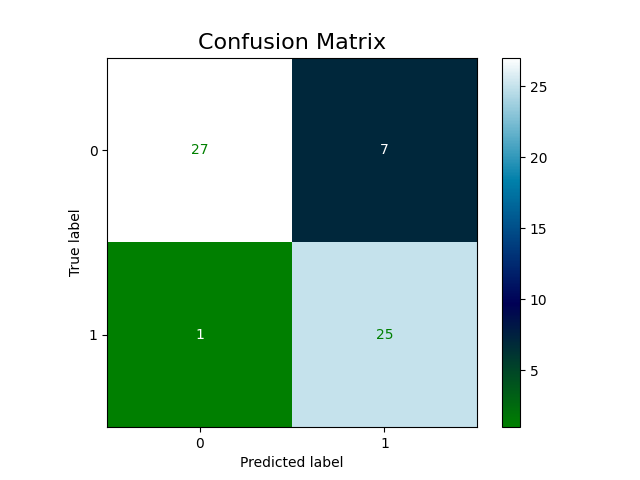
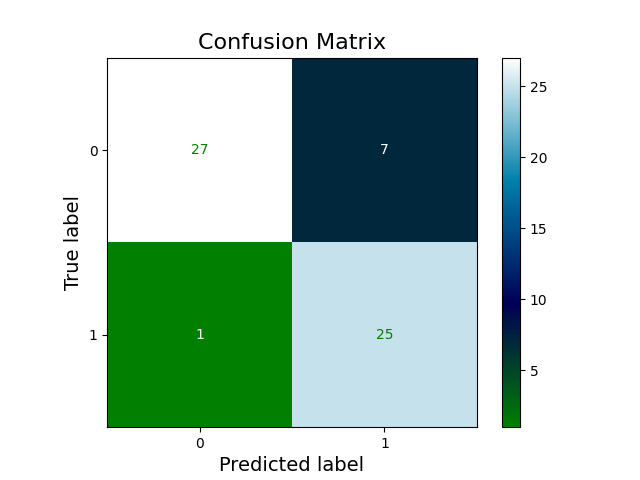
meer nederlandse plots

Changed region(s): [[0.3438, 0.9375, 0.5625, 1.0], [0.0938, 0.4062, 0.125, 0.5938]]

diff --git a/CCPlots/implementation/ClassificationExample.py b/CCPlots/implementation/ClassificationExample.py
@@ -15,59 +15,128 @@ import numpy as np
 from CCPlots.PlotExample import PlotExample
 from CCPlots.config import THEME, COLOR_PALETTE, OUTPUT_PATH
 
+RANDOM_SEED = 42
 
 class ClassificationExample(PlotExample):
+
+    # We will hold our data and classifier later
+    X, y = None, None
+    X_train, X_test, y_train, y_test = None, None, None, None
+    classifier: LogisticRegression = None
+
     def main(self):
+        """
+        Execute a LR on synth data and plot a decision boundary and confusion matrix
+        in English and Dutch
+        """
+        # Generate dummy data
+        self.generate_data()
+
+        # Split the data into training and testing sets
+        self.X_train, self.X_test, self.y_train, self.y_test = train_test_split(
+            self.X, self.y, test_size=0.3, random_state=RANDOM_SEED)
+
+        # Train LR classification model
+        self.train_classifier()
+
+        # Plot the decision boundary with English text
+        self.plot_decision_boundary(
+            fname="classification_decision_boundary.png",
+            title="Classification Example with Decision Boundary",
+            xlabel="Age",
+            ylabel="Blood Pressure"
+        )
+
+        # En nu in het Nederlands hoppa
+        self.plot_decision_boundary(
+            fname="classification_decision_boundary_NL.png",
+            title="Diabetes classificatievoorbeeld",
+            xlabel="Leeftijd",
+            ylabel="Bloeddruk"
+        )
+
+        # Plot the confusion matrix with English text
+        self.plot_confusion_matrix(
+            fname="classification_confusion_matrix.png",
+            title="Confusion Matrix",
+            xlabel="Predicted label",
+            ylabel="True label"
+        )
+
+        # En nu weer in het nederlands hatsa
+        self.plot_confusion_matrix(
+            fname="classification_confusion_matrix_NL.png",
+            title="Verwarringsmatrix",
+            xlabel="Voorspeld label",
+            ylabel="Werkelijk label"
+        )
+
+    def plot_confusion_matrix(self, fname: str, title: str,
+                              xlabel: str = "Predicted label",
+                              ylabel: str = "True label") -> None:
+        # Generate predictions and create a confusion matrix
+        y_pred = self.classifier.predict(self.X_test)
+        cm = confusion_matrix(self.y_test, y_pred)
+
+        # Plot the confusion matrix
+        disp = ConfusionMatrixDisplay(confusion_matrix=cm, display_labels=self.classifier.classes_)
+        disp.plot(cmap=THEME)
+        plt.title(title, fontsize=16)
+        plt.xlabel(xlabel, fontsize=14)
+        plt.ylabel(ylabel, fontsize=14)
+        plt.savefig(OUTPUT_PATH + fname)
+
+    def plot_decision_boundary(self, fname: str, title: str,
+                               xlabel: str = "Age",
+                               ylabel: str = "Blood Pressure") -> None:
+        """ Plot the decision boundary and save the file with the desired text. """
+        # Create a mesh to plot the decision boundary
+        x_min, x_max = self.X[:, 0].min() - 1, self.X[:, 0].max() + 1
+        y_min, y_max = self.X[:, 1].min() - 1, self.X[:, 1].max() + 1
+        xx, yy = np.meshgrid(np.arange(x_min, x_max, 0.1),
+                             np.arange(y_min, y_max, 0.1))
+
+        Z = self.classifier.predict(np.c_[xx.ravel(), yy.ravel()])
+        Z = Z.reshape(xx.shape)
+
+        # Plot the decision boundary
+        plt.figure(figsize=(8, 6))
+
+        plt.contourf(xx, yy, Z, alpha=0.4, cmap=THEME)
+        plt.scatter(self.X[:, 0], self.X[:, 1],
+                    c=self.y,
+                    cmap=THEME,
+                    edgecolor=COLOR_PALETTE['base_colors']['dark_green'],
+                    s=100)
+
+        plt.title(title, fontsize=16)
+        plt.xlabel(xlabel, fontsize=14)
+        plt.ylabel(ylabel, fontsize=14)
+        plt.grid(True)
+        plt.savefig(OUTPUT_PATH + fname)
+
+    def generate_data(self) -> None:
+        """ Generate some dummy data to simulate a diabetes classification problem. """
         # Generate a simple dataset for classification, where feature 1 is 'Age' and
         # feature 2 is 'Blood Pressure'
-        X, y = make_classification(
+        self.X, self.y = make_classification(
             n_samples=200,
             n_features=2,
             n_informative=2,
             n_redundant=0,
             n_clusters_per_class=1,
             n_classes=2,
-            random_state=42
+            random_state=RANDOM_SEED
         )
 
-        # Split the data into training and testing sets
-        X_train, X_test, y_train, y_test = train_test_split(X, y, test_size=0.3, random_state=42)
-
+    def train_classifier(self) -> None:
+        """ Train a Logistic Regression model on the data """
         # Train a simple logistic regression classifier
-        classifier = LogisticRegression()
-        classifier.fit(X_train, y_train)
-
-        # Plot the decision boundary
-        plt.figure(figsize=(8, 6))
-
-        # Create a mesh to plot the decision boundary
-        x_min, x_max = X[:, 0].min() - 1, X[:, 0].max() + 1
-        y_min, y_max = X[:, 1].min() - 1, X[:, 1].max() + 1
-        xx, yy = np.meshgrid(np.arange(x_min, x_max, 0.1),
-                             np.arange(y_min, y_max, 0.1))
-
-        Z = classifier.predict(np.c_[xx.ravel(), yy.ravel()])
-        Z = Z.reshape(xx.shape)
-
-        plt.contourf(xx, yy, Z, alpha=0.4, cmap=THEME)
-        plt.scatter(X[:, 0], X[:, 1], c=y, cmap=THEME, edgecolor=COLOR_PALETTE['base_colors']['dark_green'], s=100)
-
-        plt.title("Classification Example with Decision Boundary", fontsize=16)
-        plt.xlabel("Age", fontsize=14)
-        plt.ylabel("Blood Pressure", fontsize=14)
-        plt.grid(True)
-        plt.savefig(OUTPUT_PATH + "classification_decision_boundary.png")
-
-        # Generate predictions and create a confusion matrix
-        y_pred = classifier.predict(X_test)
-        cm = confusion_matrix(y_test, y_pred)
-
-        # Plot the confusion matrix
-        disp = ConfusionMatrixDisplay(confusion_matrix=cm, display_labels=classifier.classes_)
-        disp.plot(cmap=THEME)
-        plt.title("Confusion Matrix", fontsize=16)
-        plt.savefig(OUTPUT_PATH + "classification_confusion_matrix.png")
+        self.classifier = LogisticRegression()
+        self.classifier.fit(self.X_train, self.y_train)
 
 
 if __name__ == "__main__":
+    # Maintain this exactly, or we won't be able to regenerate every plot
+    # resulting from this code.
     ClassificationExample().main()
